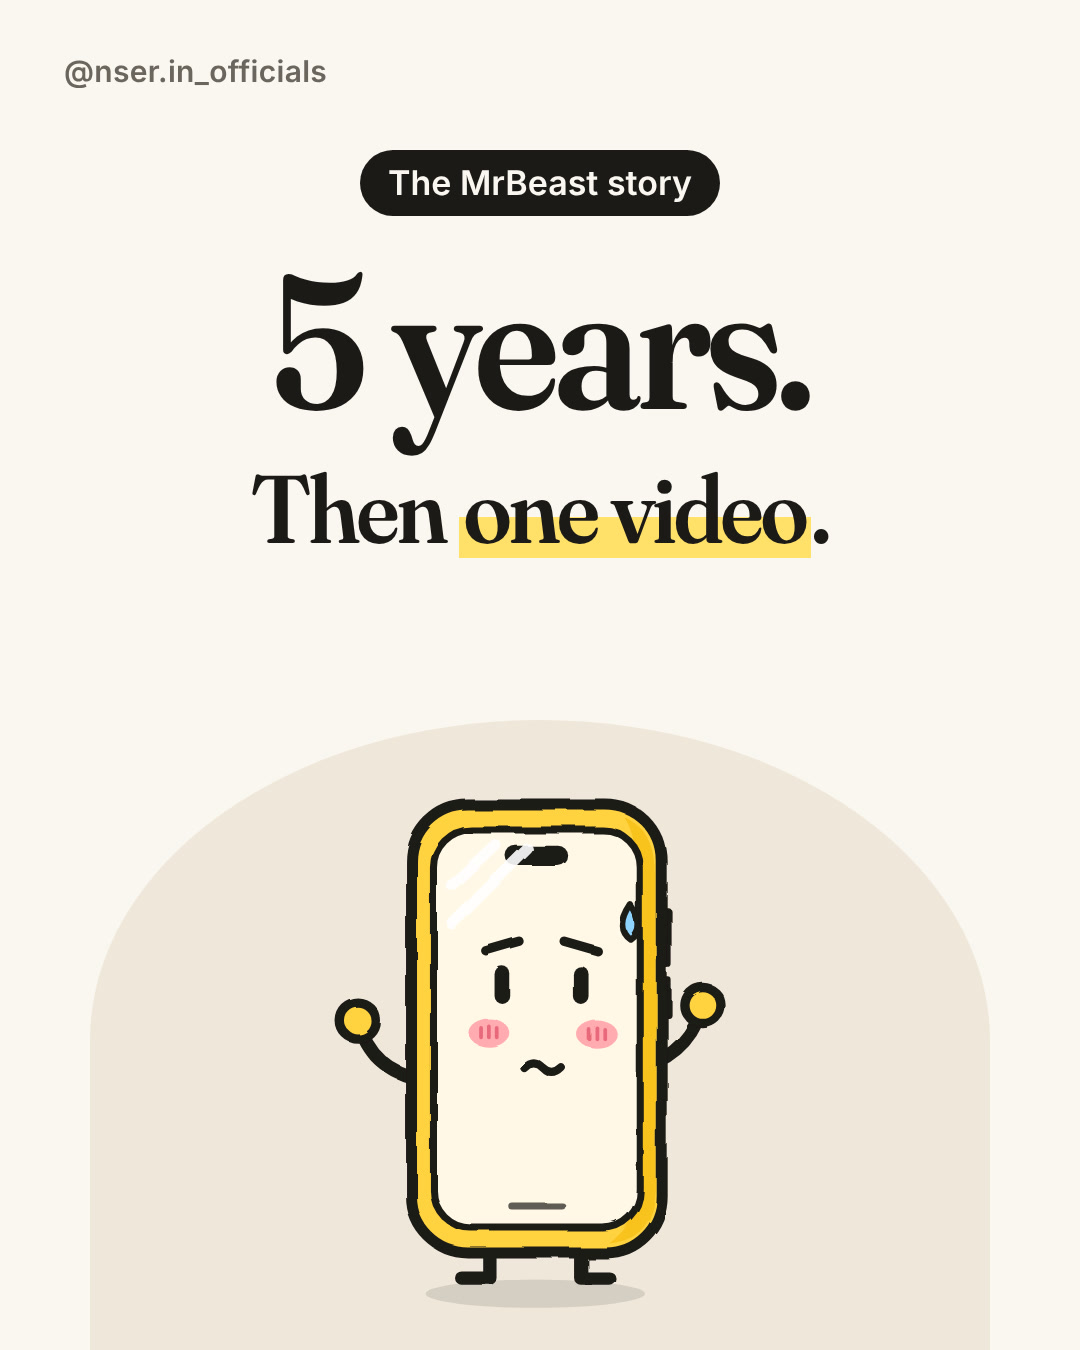
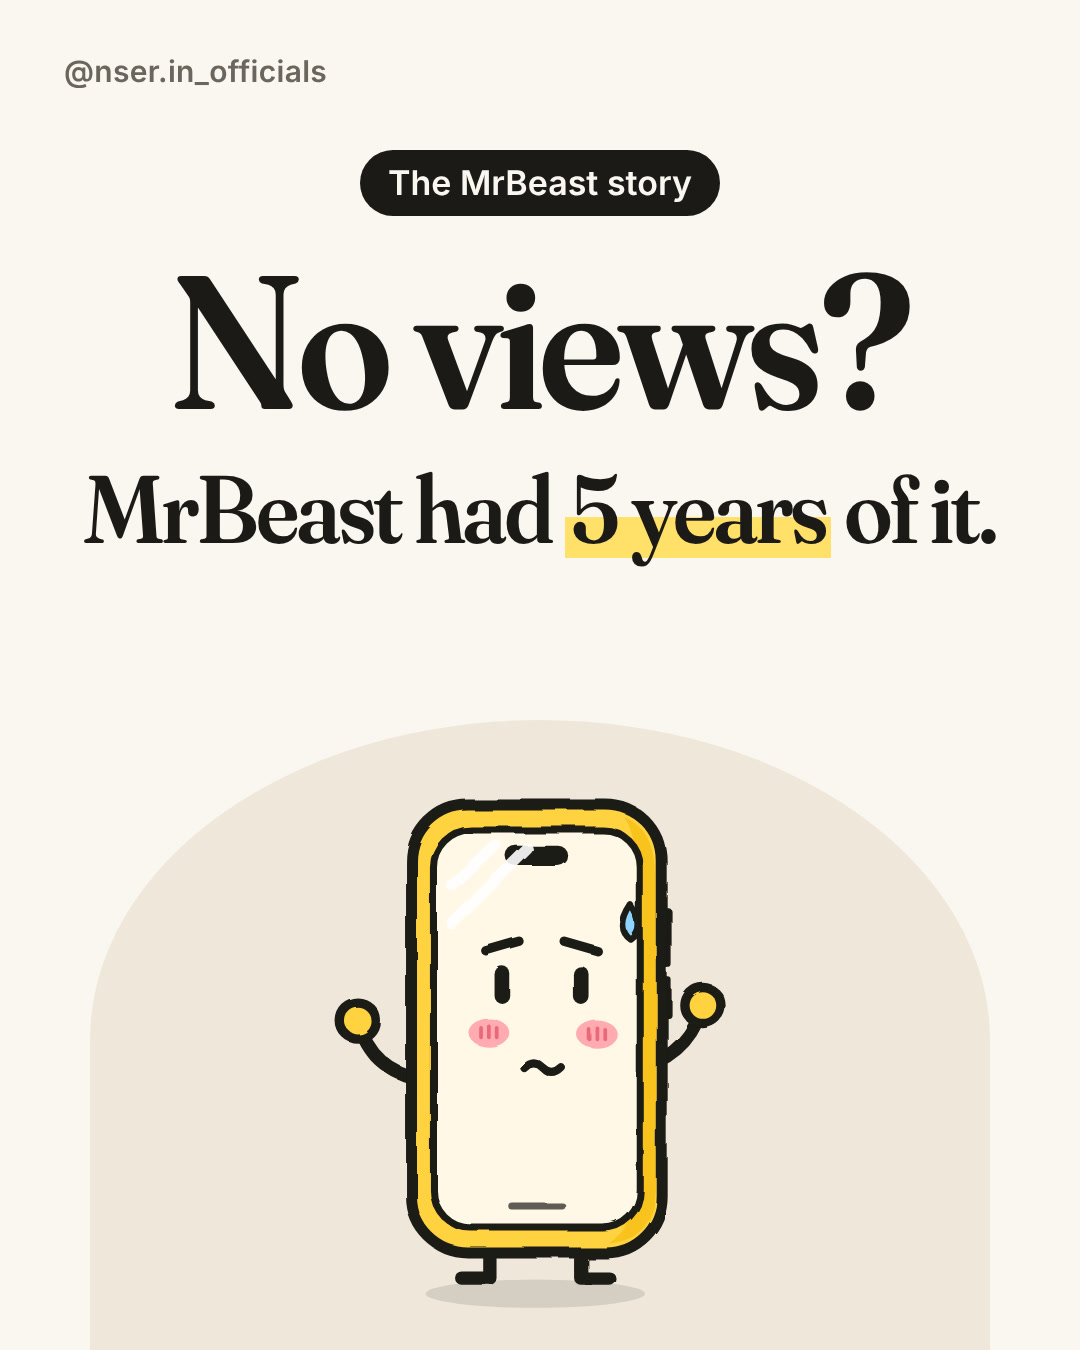
Relate on the cover, follow CTA for growth & monetisation, no daily promise
Claude-Session: https://claude.ai/code/session_016ka9pxkHViAv1Z65TJH235

Changed region(s): [[0.0611, 0.1867, 0.9167, 0.4356]]

diff --git a/engine/carousel.html b/engine/carousel.html
@@ -135,7 +135,7 @@ const L = {
       <div style="display:flex;gap:32px;align-items:center">${plane}<div><div class="hand" style="font-size:66px;line-height:1">${esc(s.send)}</div>${s.sendSub?`<div style="font:400 36px/1.3 Inter;color:var(--muted);margin-top:6px">${esc(s.sendSub)}</div>`:''}</div></div>
       <div style="display:flex;gap:32px;align-items:center">${mark}<div><div class="hand" style="font-size:66px;line-height:1">${esc(s.save)}</div>${s.saveSub?`<div style="font:400 36px/1.3 Inter;color:var(--muted);margin-top:6px">${esc(s.saveSub)}</div>`:''}</div></div>
     </div>
-    ${s.product?`<div class="abs" style="left:88px;bottom:96px;background:var(--ink);color:var(--paper);font:600 34px/1 Inter;padding:20px 28px;border-radius:999px">${esc(s.product)}</div>`:''}
+    ${s.product?`<div class="abs" style="left:88px;bottom:96px;max-width:600px;background:var(--ink);color:var(--paper);font:600 34px/1.25 Inter;padding:20px 30px;border-radius:40px">${esc(s.product)}</div>`:''}
     <div class="abs" style="right:30px;bottom:${s.product?150:40}px">${nib(s.nib,{pose:'hold',mood:'happy',size:330})}</div>`;},
 
   // 10 · a video card we draw ourselves (never a real thumbnail)

diff --git a/NIGHTLY.md b/NIGHTLY.md
@@ -33,28 +33,34 @@ Playwright + Chromium + ffmpeg are pre-installed in Claude's cloud workspace.
 - Follow the 5 sales steps in BOTH carousel and reel, in order:
   1) Relate (their situation, in their shoes)  2) Be a friend ("we've been there")
   3) Build trust (sourced facts, story)  4) Sell the value (the method they can use)
-  5) Then the product (pre-launch: "One creator story every day · @nser.in_officials").
+  5) Then the product (pre-launch: FOLLOW @nser.in_officials for more on creator growth and monetisation).
+  Never promise a posting schedule ("every day", "daily") anywhere.
 - English only. Plain, warm, short sentences. Simple words.
 
 ### Carousel (`carousel` in post.json)
 - 8 to 10 slides, every slide a DIFFERENT layout kind. Kinds available in engine/carousel.html:
-  `thumb` (slide 1 only: like a YouTube thumbnail, ≤6 words, one idea, big Nib),
+  `thumb` (slide 1 only: like a YouTube thumbnail, one idea, big Nib. It must carry the RELATE step and be
+  instantly clear: `title` = the viewer's own problem as a short question, ≤10 characters, e.g. "No views?";
+  `title2` = the story's answer, ≤32 characters, e.g. "MrBeast had **5 years** of it."),
   `statement`, `timeline`, `bignum`, `quote`, `split`, `chart` (bars drawn to scale),
   `checklist`, `ask`, `share` (last slide: send + save CTA + `product` line).
 - `**word**` = yellow marker highlight. No slide numbers, no progress bars. Mascot is Phone Nib (default).
-- Last slide is always `share`: ask people to SEND it to a friend and SAVE it.
+- Last slide is always `share`: ask people to SEND it to a friend and SAVE it, with
+  `product` = "Follow for more on creator growth & monetisation".
 
 ### Reel (`reel` + `reel_nodes` in post.json)
 - 30–40 s of narration, beats of one short sentence each. Scenes, in order:
   `relate` (2 beats: hook with a number, then "if you…"), `friend` (1 beat),
   `trust` (4–5 beats; each has `node` index into `reel_nodes`; widgets: camera, counter,
-  magnifier, clock, bars), `value` (1 beat with 3 `items`), `product` (2 beats, last has `"cta": true`).
+  magnifier, clock, bars), `value` (1 beat with 3 `items`), `product` (2 beats: first = "Follow us for more on creator growth and
+  monetisation.", card "More on **growth** and **monetisation**."; last = send + save, has `"cta": true`).
 - Hook must score ≥ 70 with `python3 tools/hookscore.py --hook "..."`.
 - Voice `af_heart`.
 
 ### Captions
-- `carousel_caption`: first line ≤ 125 chars and concrete; story; one ask (send + save); source; 3–5 hashtags.
-- `reel_caption`: short, points to the carousel, same single ask, source, hashtags.
+- `carousel_caption`: first line ≤ 125 chars and concrete; story; one ask (send + save); then the line
+  "Follow @nser.in_officials for more on creator growth and monetisation."; source; 3–5 hashtags.
+- `reel_caption`: short, points to the carousel, same single ask, the same follow line, source, hashtags.
 - `carousel_alt`: one-line alt text.
 - Lint: `python3 tools/caption.py <file> --keywords "..."` must say READY.
 
